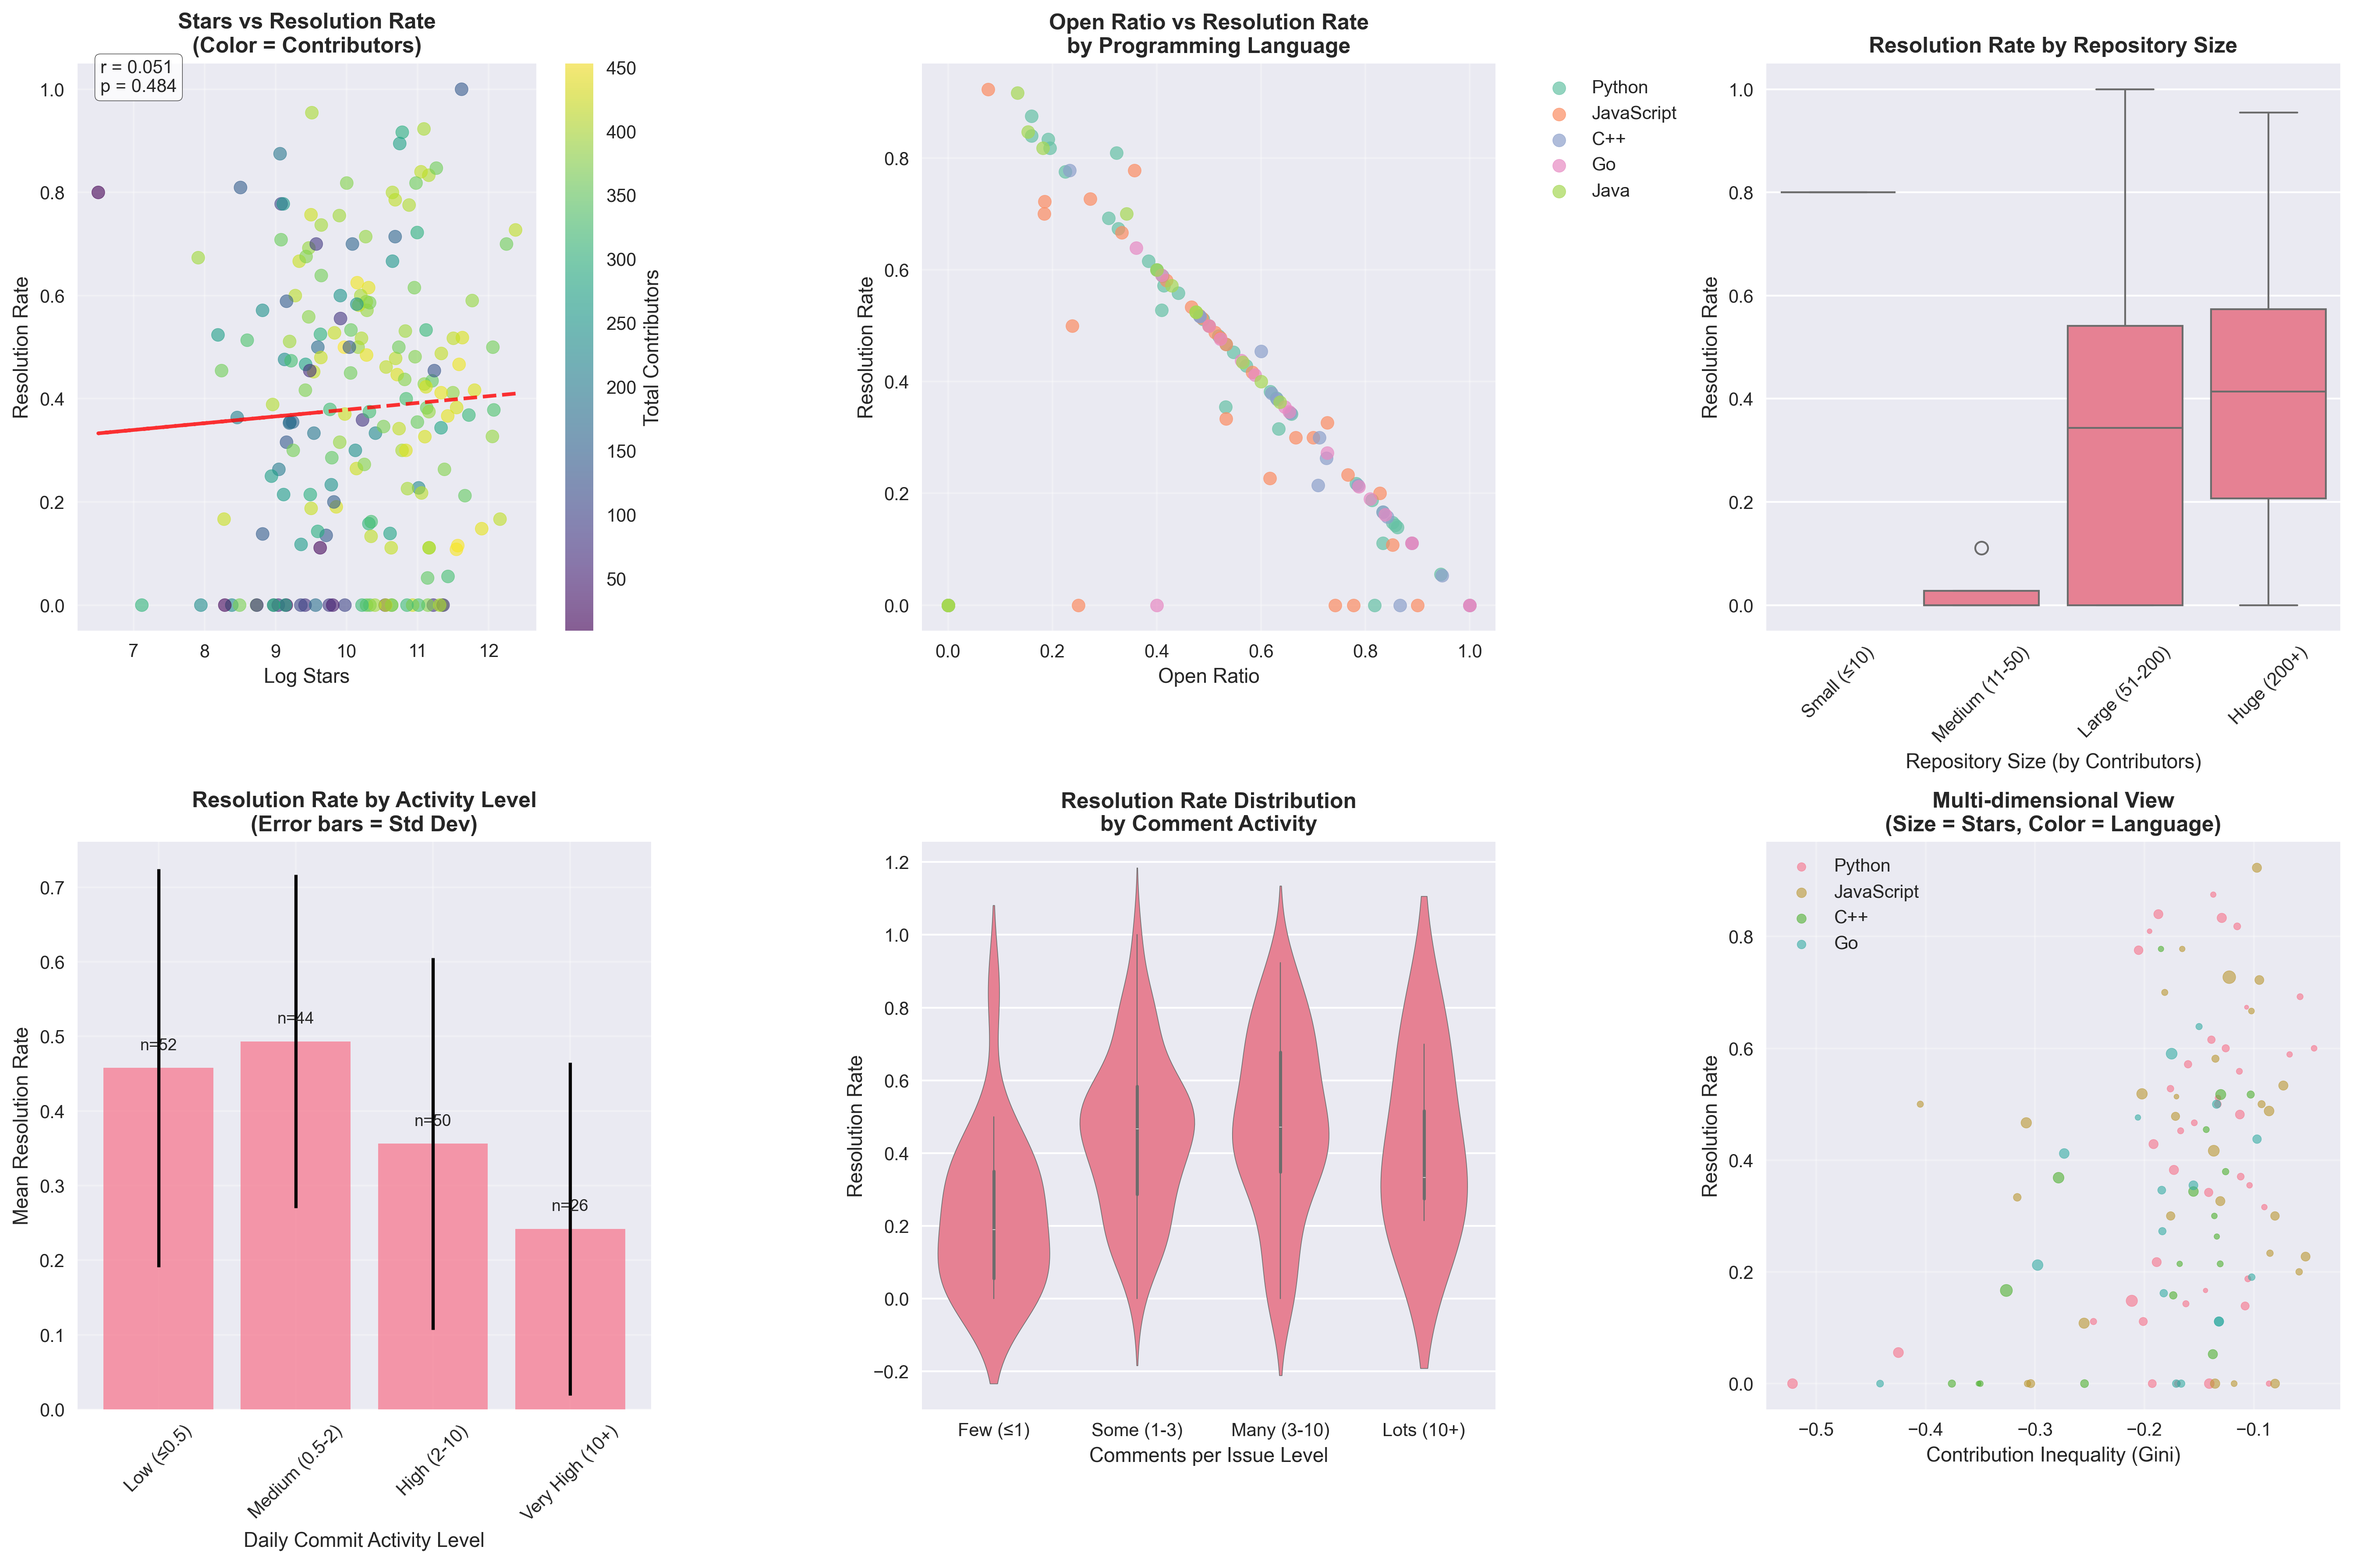
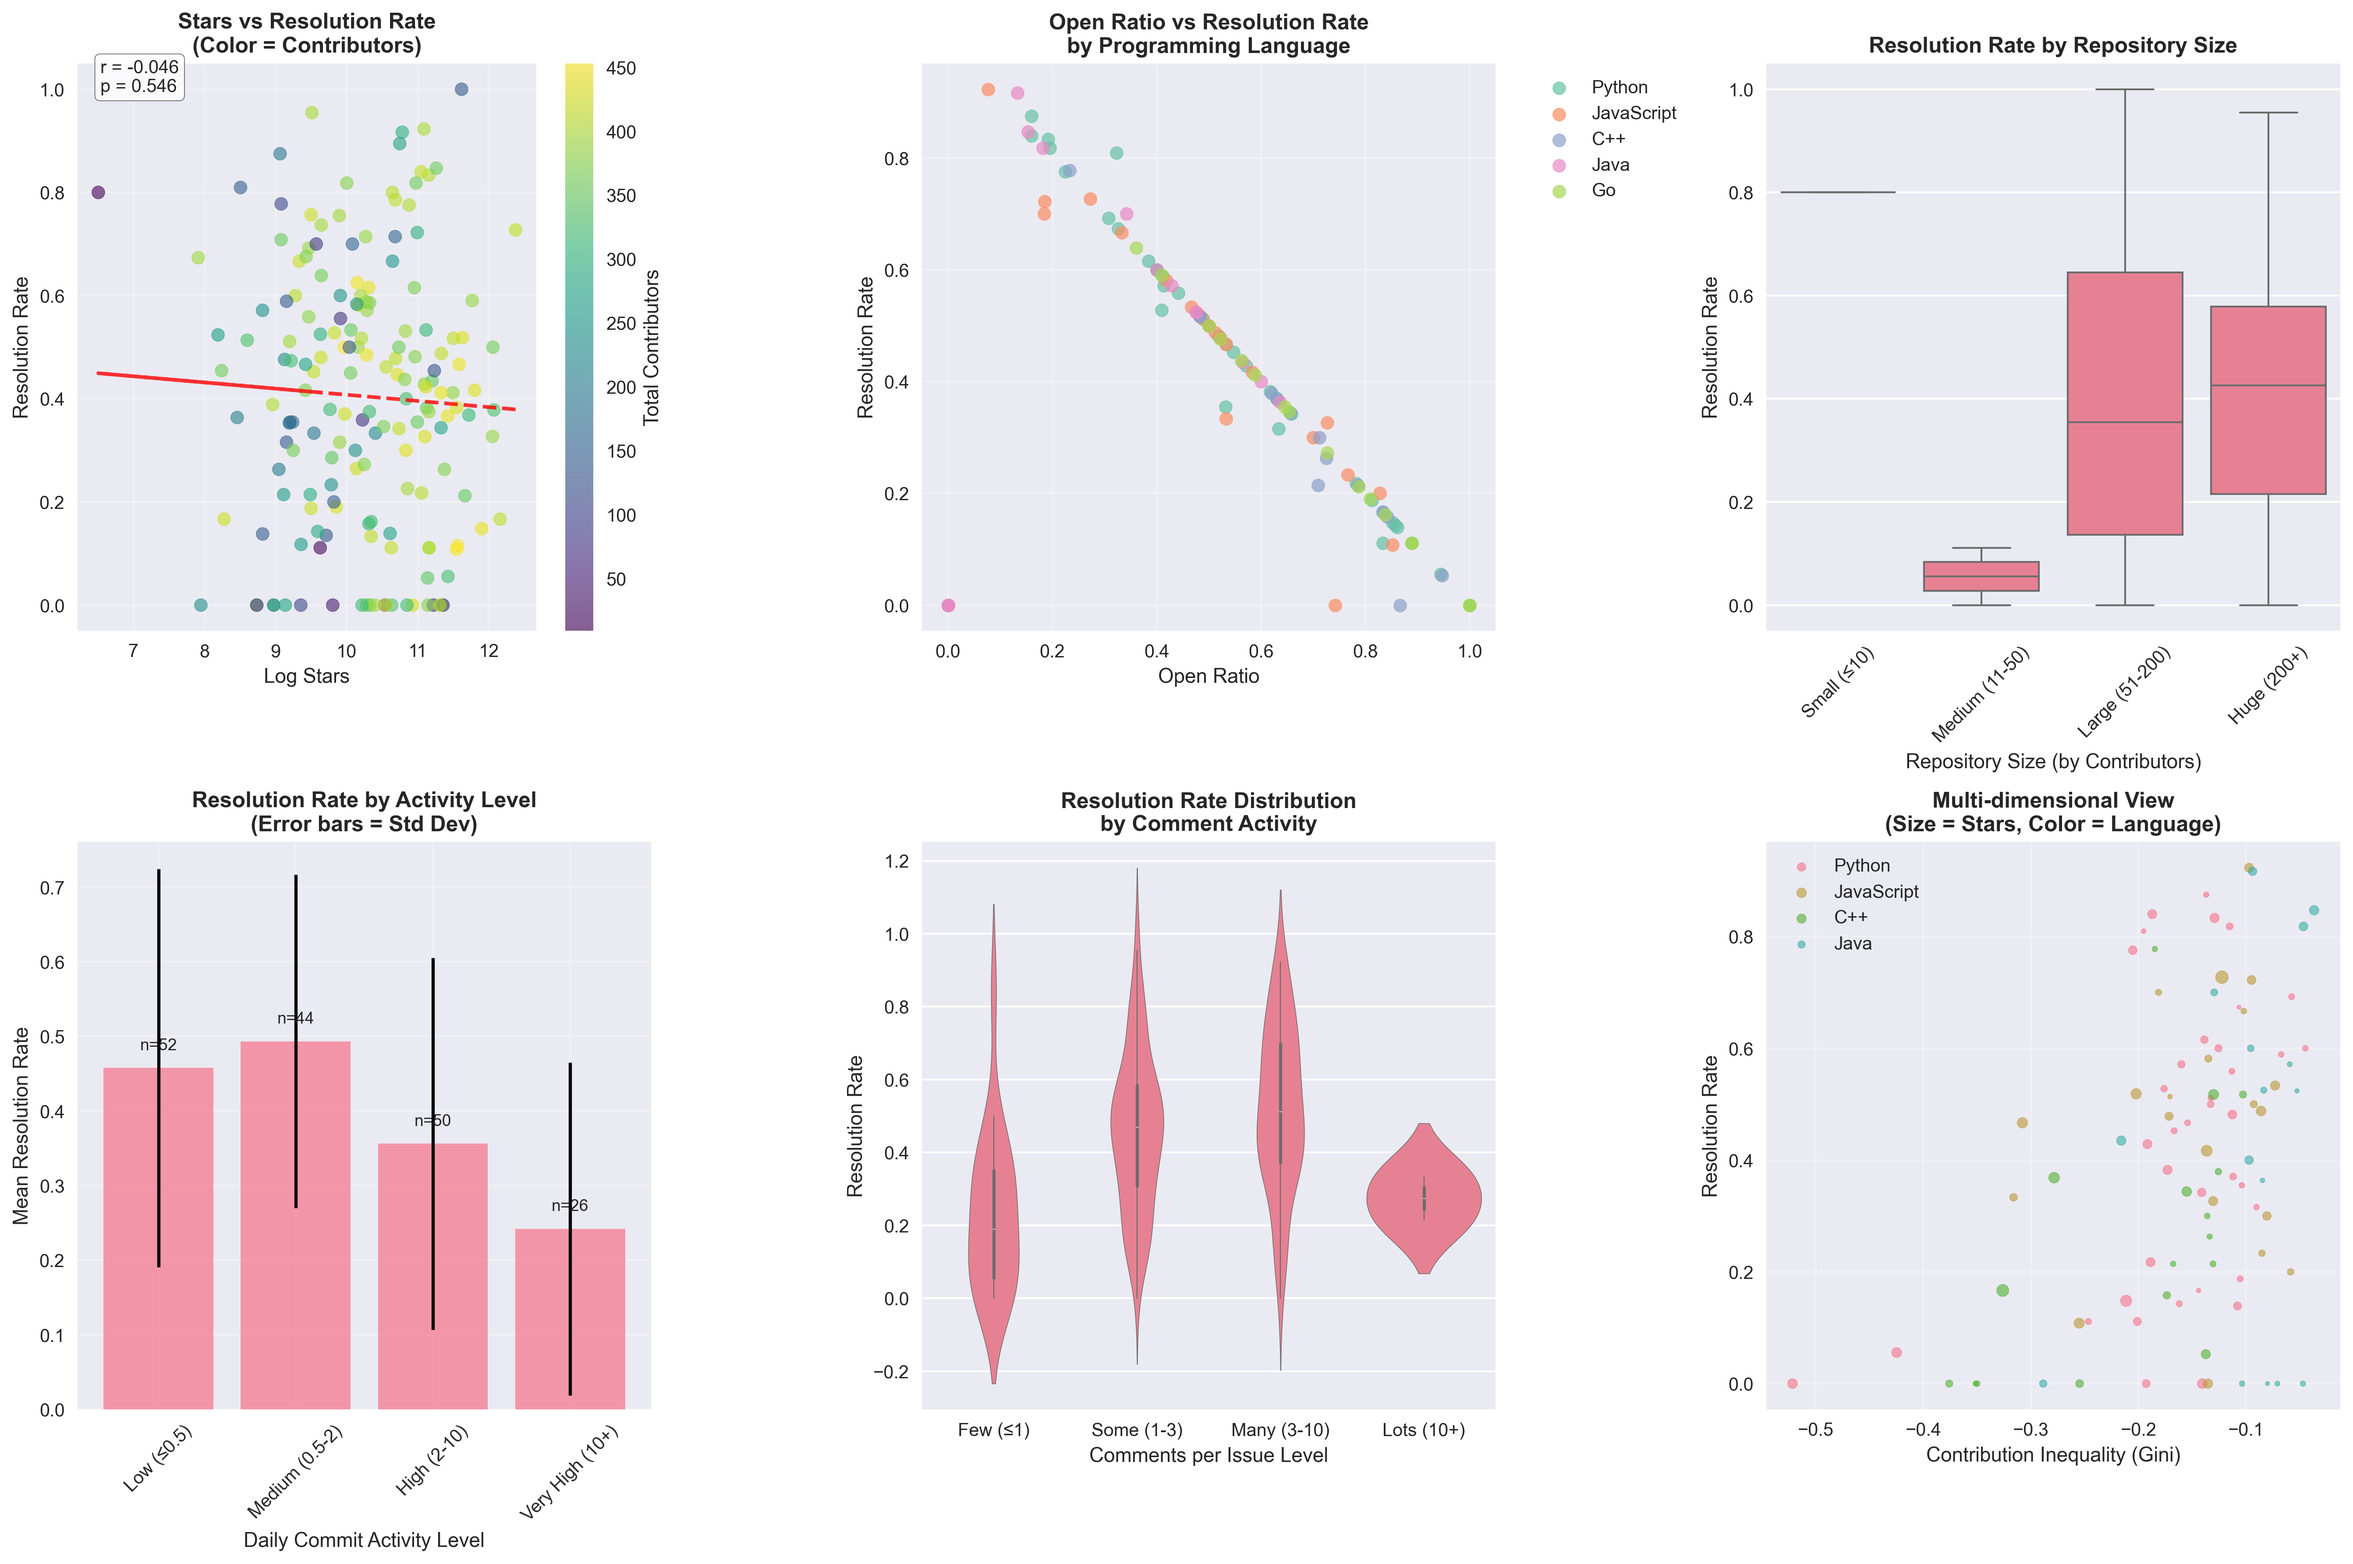
project final add

diff --git a/github_analysis/interactive_plots.py b/github_analysis/interactive_plots.py
@@ -13,7 +13,7 @@ import matplotlib.pyplot as plt
 import seaborn as sns
 from scipy import stats
 
-def create_advanced_plots(filepath="dataset.csv"):
+def create_advanced_plots(filepath="repos_filtered.csv"):
     """Create advanced plots for deeper analysis."""
     
     # Load data
